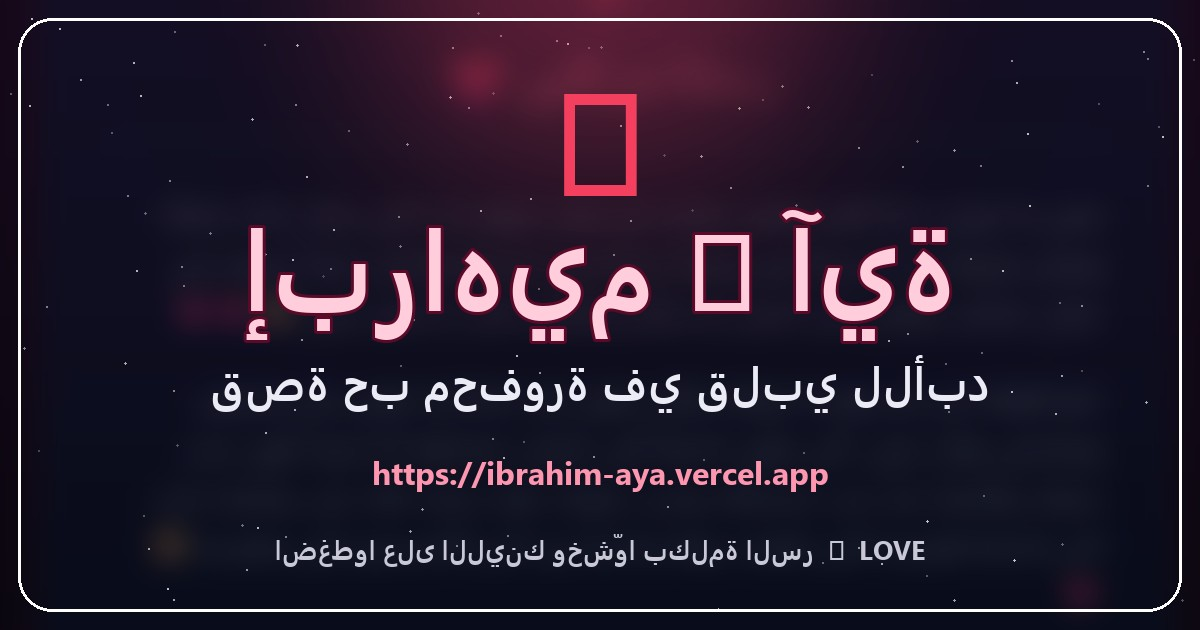
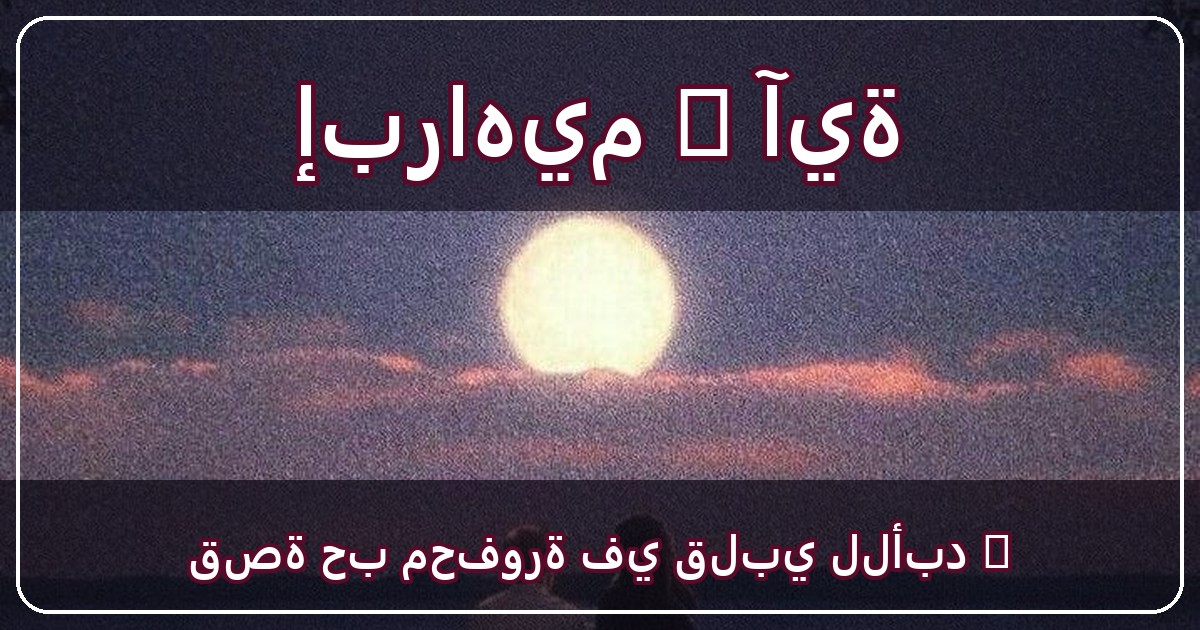
صورة المعاينة بقت photo1.jpeg + اسم الاسماء والجملة على الصورة

diff --git a/assets/make_preview.py b/assets/make_preview.py
@@ -11,7 +11,7 @@ from PIL import Image, ImageDraw, ImageFilter, ImageFont, ImageOps
 
 HERE = os.path.dirname(os.path.abspath(__file__))
 SHOT = os.path.join(HERE, "..", "screenshot.png")          # صورة الموقع (اختياري)
-PHOTO = os.path.join(HERE, "images", "photo1.jpeg")        # صورتها
+PHOTO = os.path.join(HERE, "images", "photo1.jpeg")        # الصورة اللي بتظهر مع اللينك
 OUT_PREVIEW = os.path.join(HERE, "preview.jpg")
 OUT_ICON = os.path.join(HERE, "icon.png")
 
@@ -67,55 +67,49 @@ def make_icon():
 
 
 def make_preview():
-    base = gradient(W, H, (23, 12, 36), (6, 8, 20))
-
-    if os.path.exists(SHOT):
+    # ── الخلفية: الصورة نفسها واضحة (الصورة التانية) ──
+    base = None
+    if os.path.exists(PHOTO):
         try:
-            shot = Image.open(SHOT).convert("RGB")
-            shot = ImageOps.fit(shot, (W, H), method=Image.LANCZOS)
-            shot = shot.filter(ImageFilter.GaussianBlur(14))
-            base = Image.blend(base, shot, 0.35)
+            ph = Image.open(PHOTO).convert("RGB")
+            # نملّي الكادر بالصورة (قص بسيط من الجوانب بس)
+            base = ImageOps.fit(ph, (W, H), method=Image.LANCZOS, centering=(0.5, 0.35))
         except Exception:
-            pass
+            base = None
 
-    d = ImageDraw.Draw(base, "RGBA")
+    if base is None:
+        # لو الصورة مش موجودة، نرجع للخلفية القديمة
+        base = gradient(W, H, (23, 12, 36), (6, 8, 20))
+        if os.path.exists(SHOT):
+            try:
+                shot = Image.open(SHOT).convert("RGB")
+                shot = ImageOps.fit(shot, (W, H), method=Image.LANCZOS)
+                shot = shot.filter(ImageFilter.GaussianBlur(14))
+                base = Image.blend(base, shot, 0.35)
+            except Exception:
+                pass
 
-    # نجوم خفيفة
-    import random
-    random.seed(7)
-    for _ in range(140):
-        x, y = random.randint(0, W), random.randint(0, H)
-        r = random.choice([1, 1, 1, 2])
-        a = random.randint(60, 190)
-        d.ellipse([x, y, x + r, y + r], fill=(255, 255, 255, a))
+    base = base.convert("RGBA")
 
-    # هالة وردية
-    glow = Image.new("RGBA", (W, H), (0, 0, 0, 0))
-    gd = ImageDraw.Draw(glow)
-    gd.ellipse([W / 2 - 300, -140, W / 2 + 300, 240], fill=(244, 63, 94, 90))
-    glow = glow.filter(ImageFilter.GaussianBlur(120))
-    base = Image.alpha_composite(base.convert("RGBA"), glow)
+    # تعتيم خفيف تحت فوق عشان الكلام يبان
+    shade = Image.new("RGBA", (W, H), (0, 0, 0, 0))
+    sd = ImageDraw.Draw(shade)
+    sd.rectangle([0, 0, W, 210], fill=(10, 6, 18, 150))
+    sd.rectangle([0, H - 150, W, H], fill=(10, 6, 18, 175))
+    base = Image.alpha_composite(base, shade)
+
     d = ImageDraw.Draw(base, "RGBA")
 
     # إطار
-    d.rounded_rectangle([18, 18, W - 19, H - 19], radius=34, outline=(255, 255, 255, 60), width=3)
+    d.rounded_rectangle([16, 16, W - 17, H - 17], radius=32, outline=(255, 255, 255, 90), width=4)
 
-    # القلب
-    fh = font(150)
-    box = d.textbbox((0, 0), "❤", font=fh)
-    d.text(((W - (box[2] - box[0])) / 2 - box[0], 34), "❤", font=fh, fill=(244, 63, 94, 255))
+    # الاسم فوق
+    f_names = font(96)
+    center(d, "إبراهيم ❤ آية", f_names, 52, (255, 255, 255, 255), stroke=5, stroke_fill=(90, 10, 40, 230))
 
-    f_names = font(112)
-    center(d, "إبراهيم ❤ آية", f_names, 190, (255, 205, 220, 255), stroke=3, stroke_fill=(90, 10, 40, 255))
-
+    # الجملة تحت
     f_line = font(46)
-    center(d, "قصة حب محفورة في قلبي للأبد", f_line, 350, (235, 235, 245, 255))
-
-    f_sub = font(32)
-    center(d, "https://ibrahim-aya.vercel.app", f_sub, 450, (255, 150, 175, 255))
-
-    f_small = font(27)
-    center(d, "اضغطوا على اللينك وخشّوا بكلمة السر  ❤  LOVE", f_small, 530, (200, 200, 215, 255))
+    center(d, "قصة حب محفورة في قلبي للأبد 💌", f_line, H - 112, (255, 255, 255, 255), stroke=4, stroke_fill=(90, 10, 40, 220))
 
     base.convert("RGB").save(OUT_PREVIEW, "JPEG", quality=90, optimize=True)
     print("preview.jpg OK")
